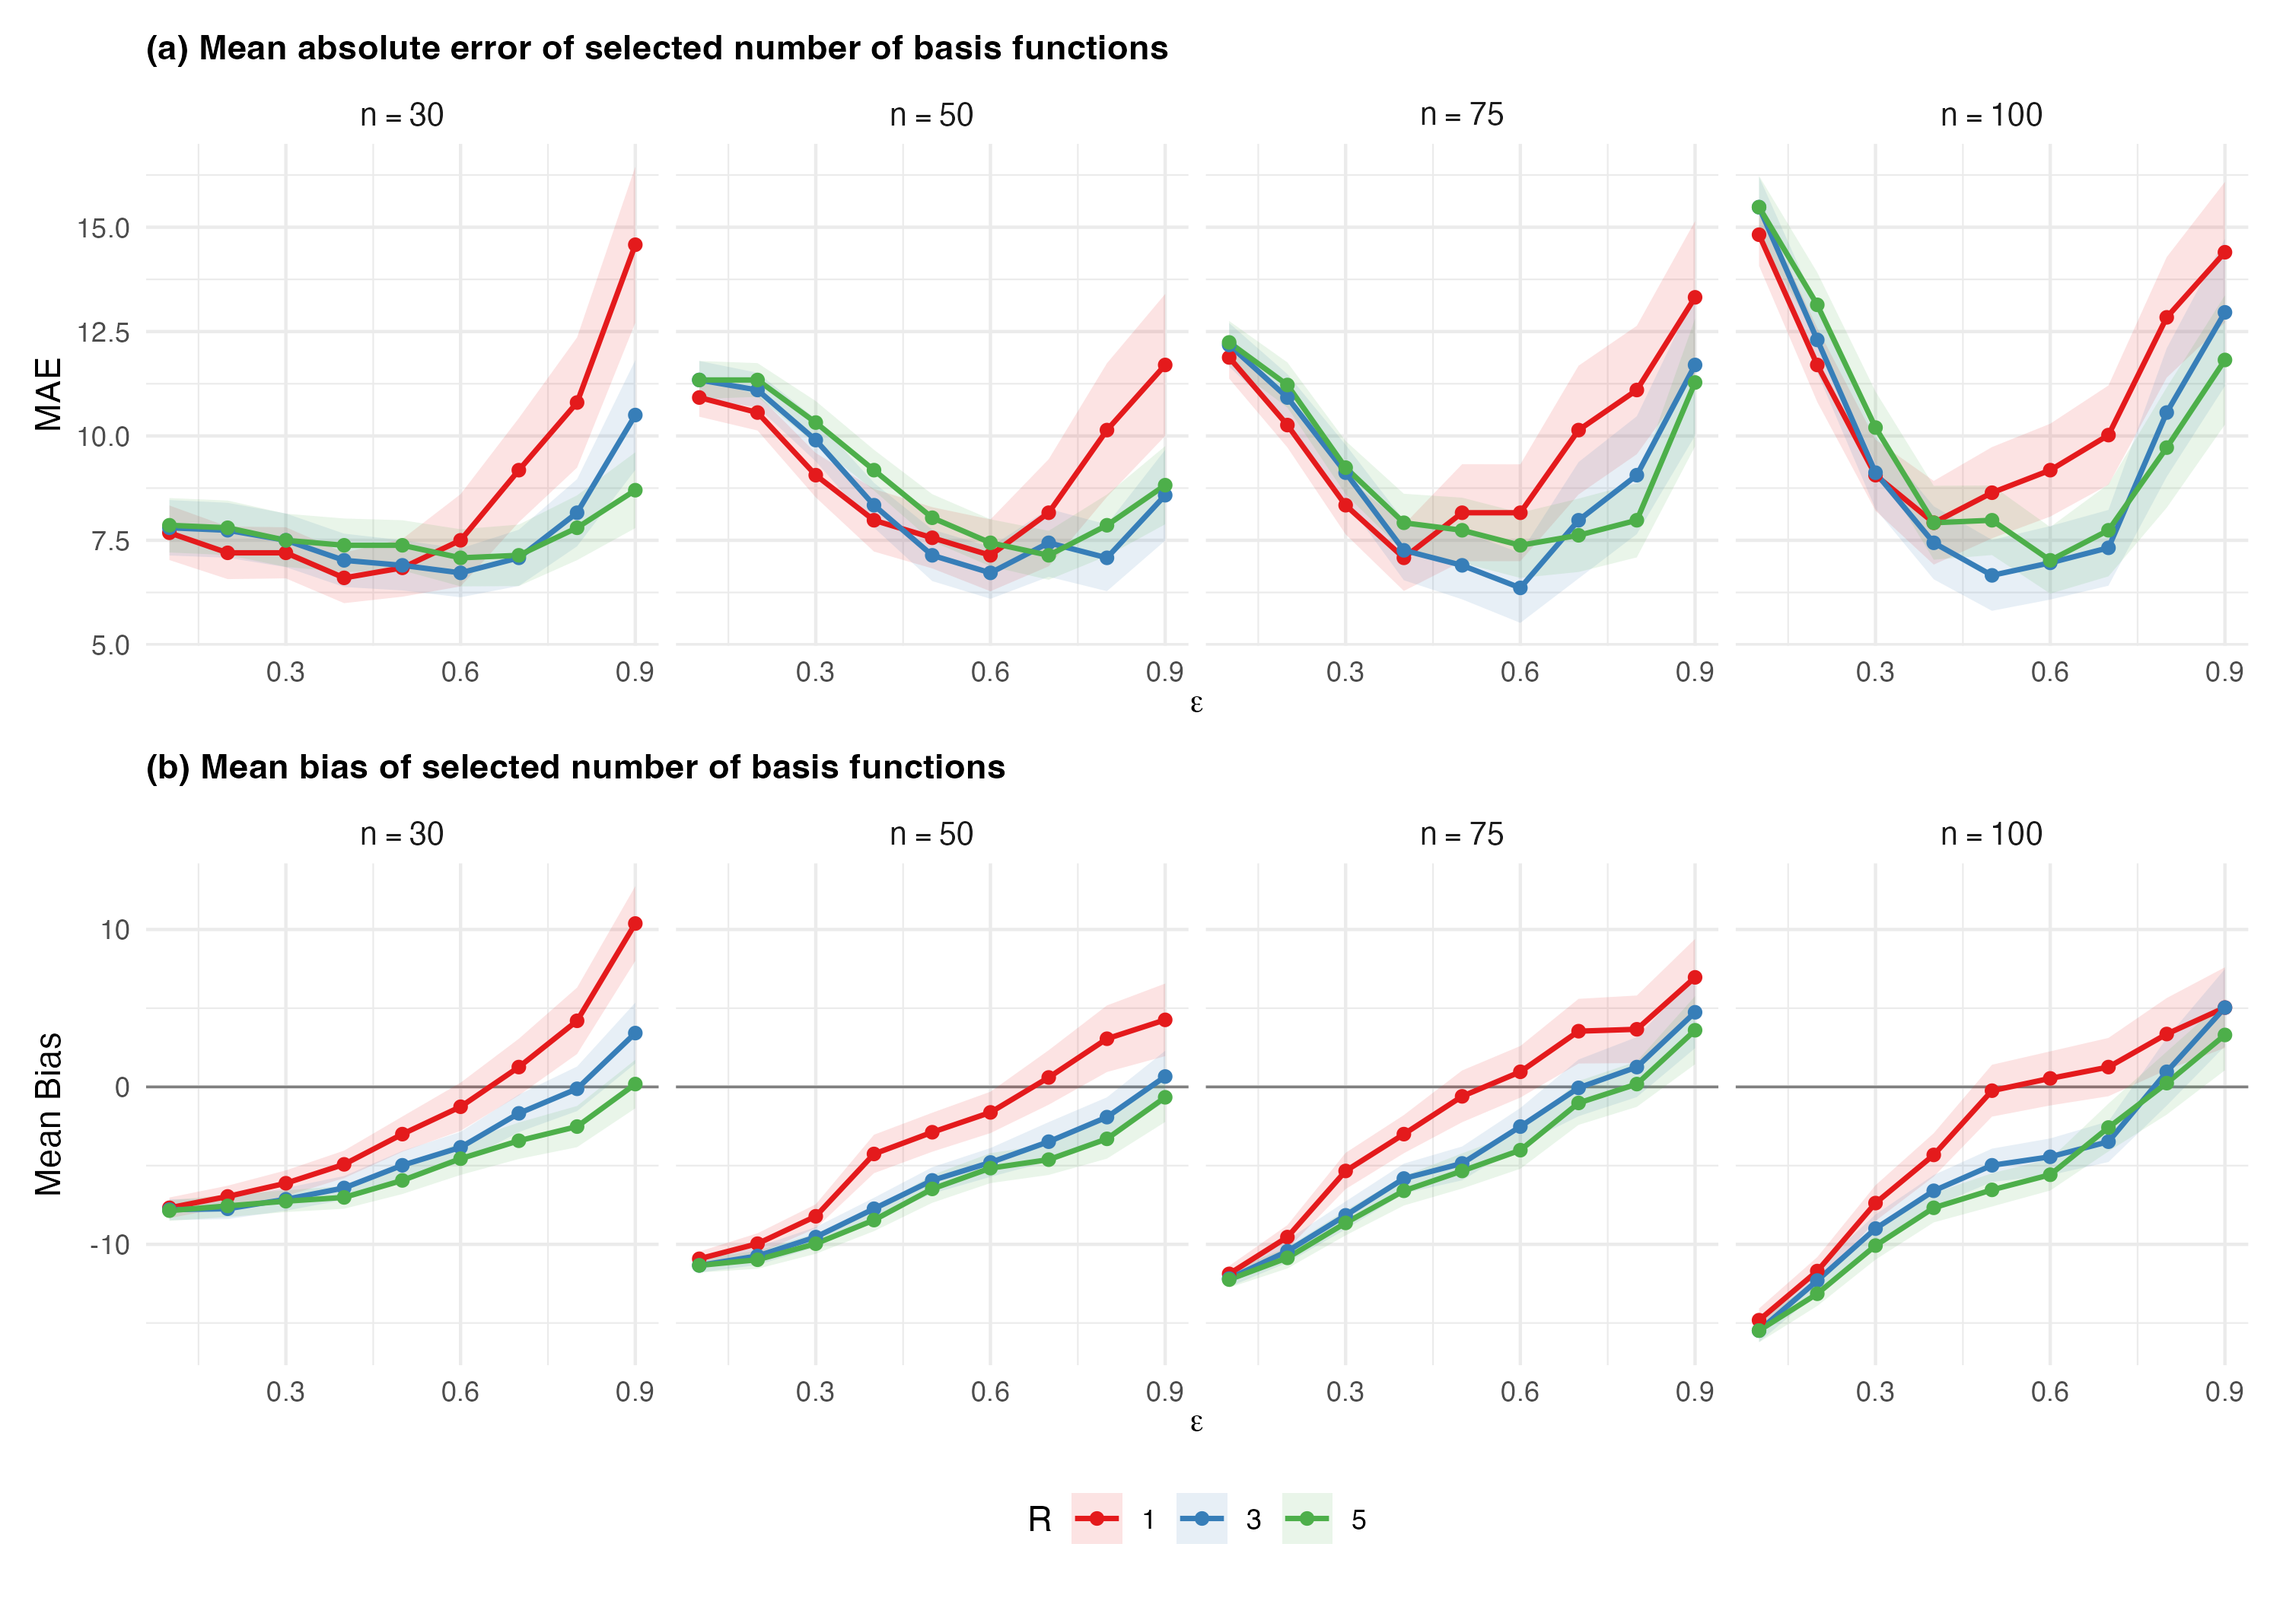
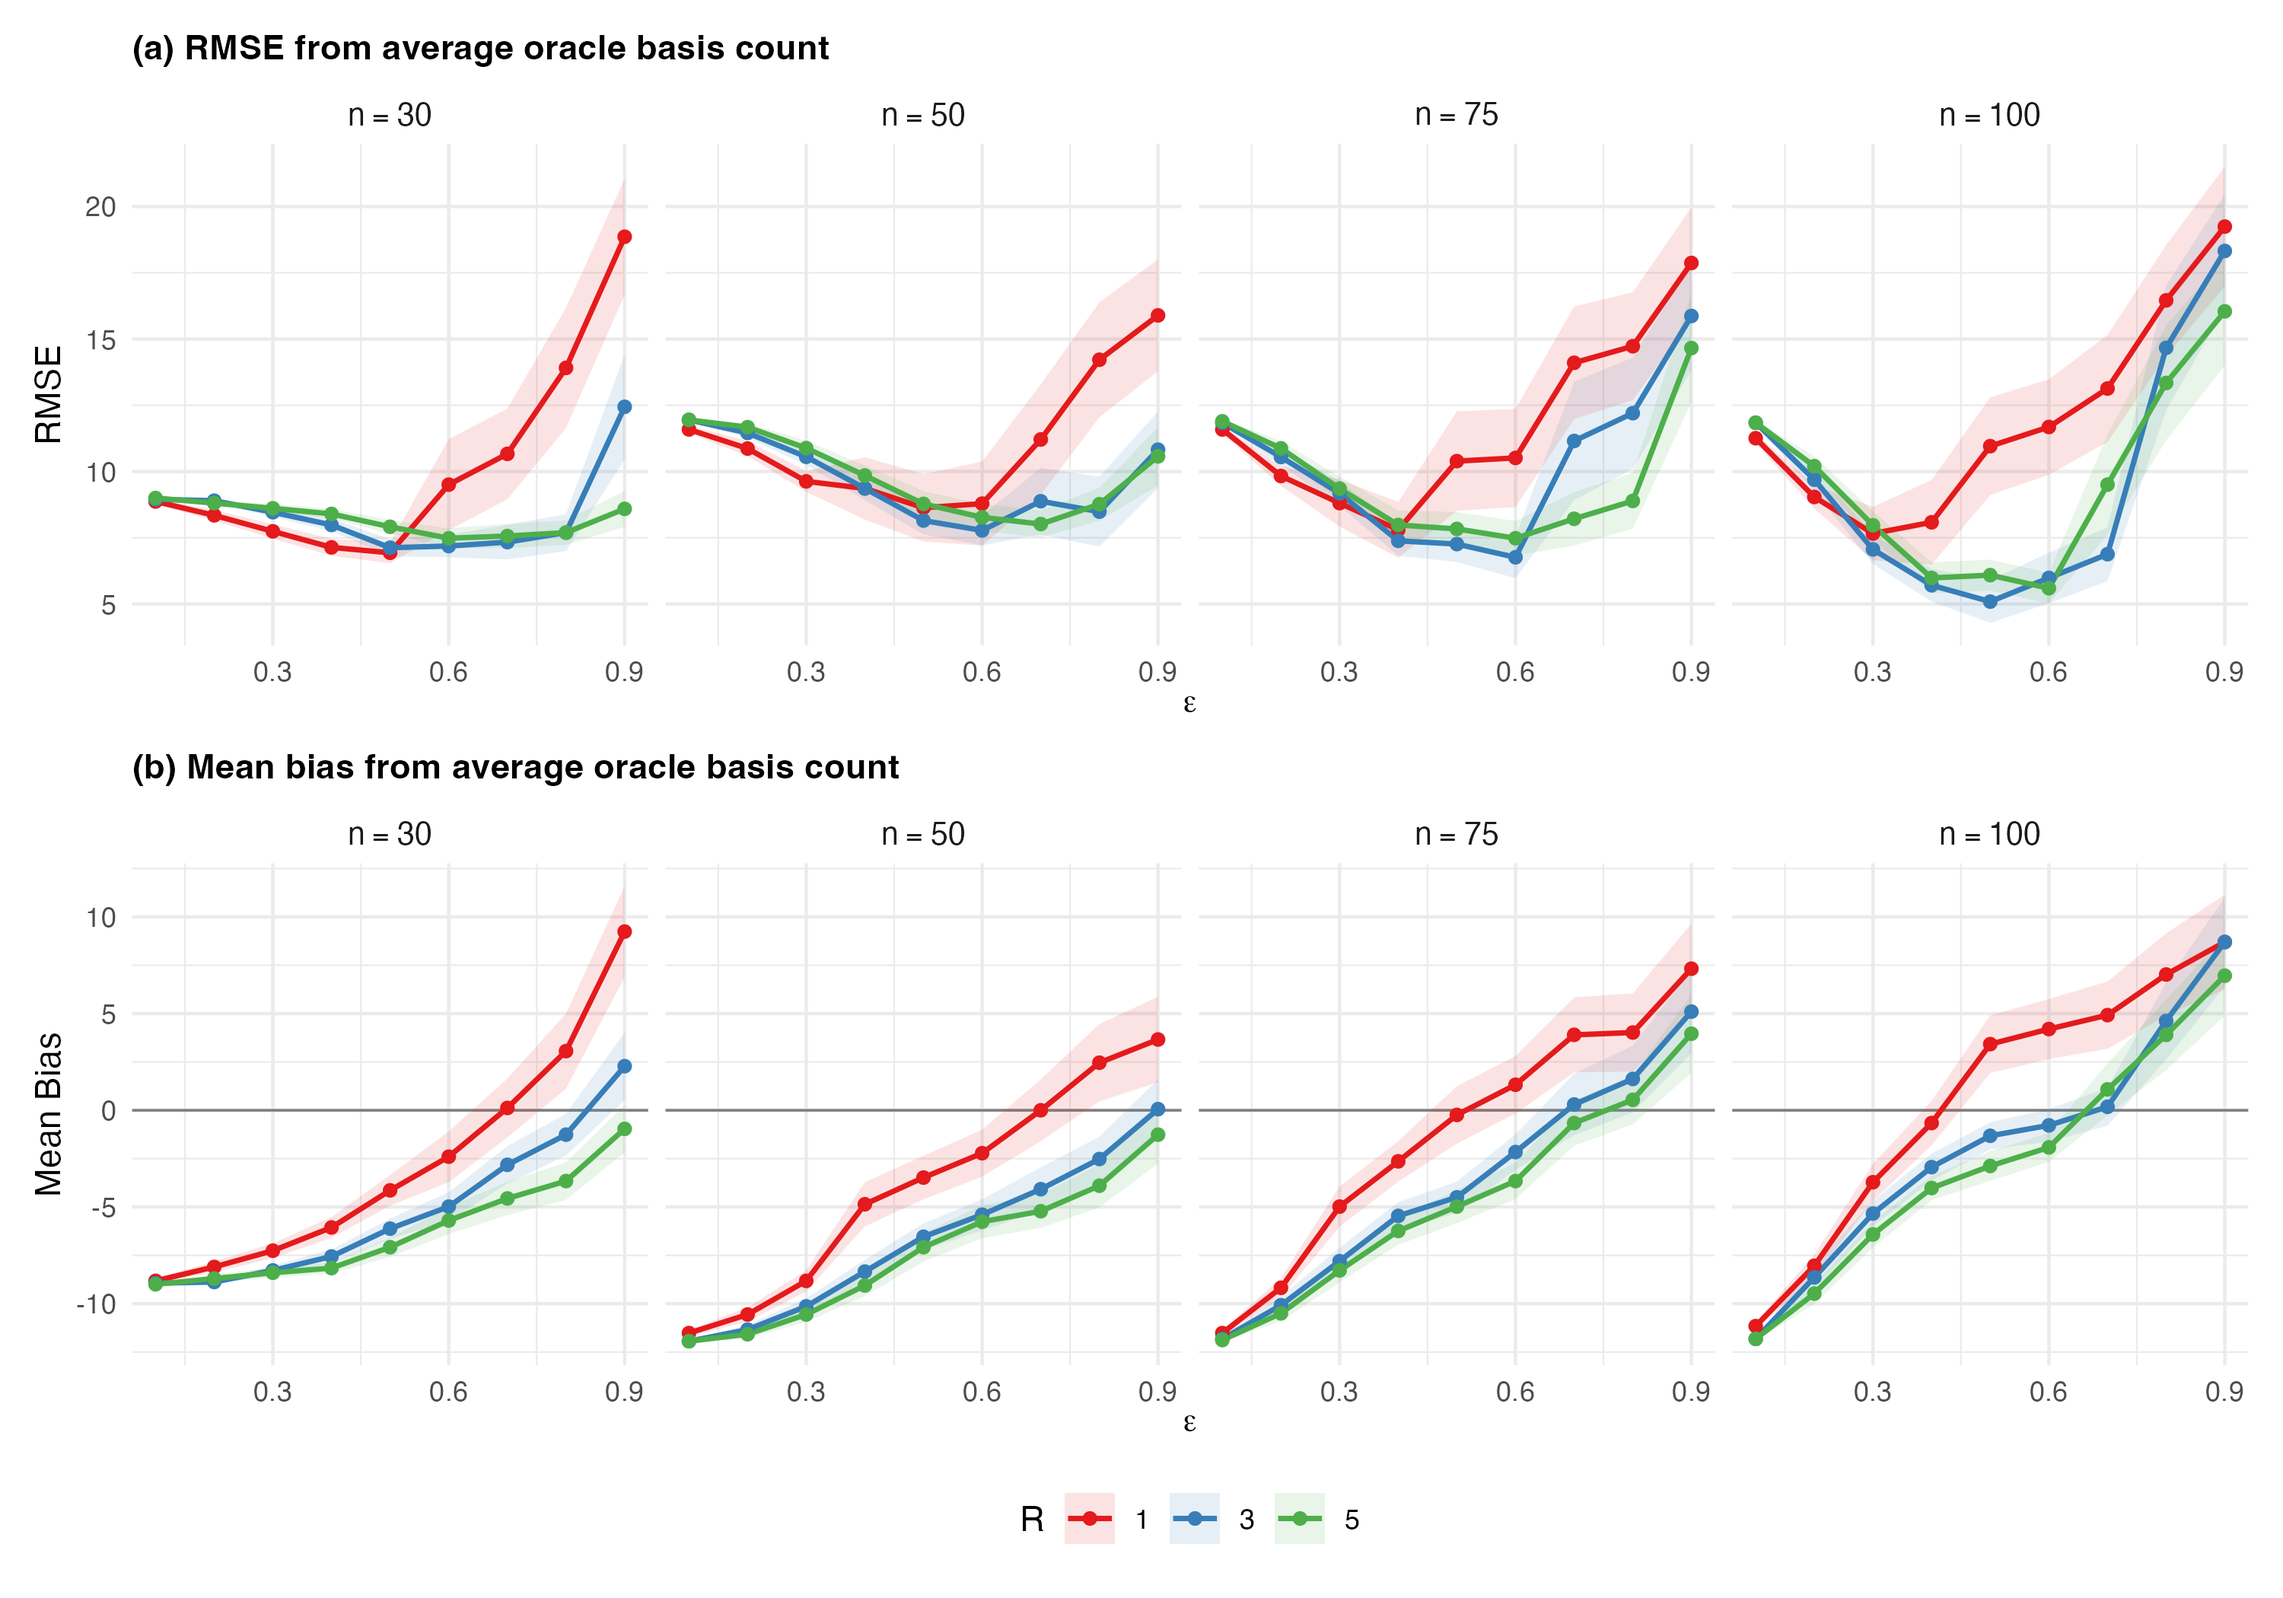
update: re-render Section 6 outputs with average oracle and RMSE metric
plot4_basis.png, plot5_comparison.png, table_comparison.tex now reflect
average oracle (p*=15) and RMSE, matching arXiv v1.

diff --git a/core_analysis/table_comparison.tex b/core_analysis/table_comparison.tex
@@ -1,18 +1,15 @@
 \begin{table}[ht]
 \centering
-\begin{tabular}{l rrr rrr}
+\begin{tabular}{l rrrr}
   \toprule
-  & \multicolumn{3}{c}{MAE} & \multicolumn{3}{c}{Bias} \\
-  \cmidrule(lr){2-4} \cmidrule(lr){5-7}
-  Method & 0.75\% & 1.25\% & 1.75\% & 0.75\% & 1.25\% & 1.75\% \\
+  Method & 0.75\% & 1.25\% & 1.75\% & Overall \\
   \midrule
-  DT-MSE $\epsilon$=0.7 & 7.74 & 5.82 & 9.54 & $-$3.4 & $-$3.5 & $-$3.4 \\
-  DT-NLL $\epsilon$=0.7 & 7.68 & 5.88 & 10.14 & $-$2.8 & $-$2.8 & $-$0.8 \\
-  DIC & 6.18 & 5.70 & 10.68 & $-$2.6 & $-$1.4 & $+$0.4 \\
-  WAIC & 5.94 & 6.78 & 13.02 & $-$2.7 & $+$0.2 & $+$2.8 \\
-  ESIM & 9.60 & 7.44 & 7.38 & $-$8.8 & $-$7.0 & $-$6.7 \\
+  DT-MSE $\\epsilon$=0.7 & 8.54 & 5.91 & 8.41 & 7.71 \\
+  DT-NLL $\\epsilon$=0.7 & 8.27 & 6.04 & 10.44 & 8.44 \\
+  DIC & 6.98 & 6.79 & 10.60 & 8.31 \\
+  WAIC & 6.77 & 9.49 & 14.26 & 10.63 \\
   \bottomrule
 \end{tabular}
-\caption{MAE and mean bias from oracle basis count by method and design across $S=50$ simulation replicates. Columns indicate proportional-to-population allocation (PA) designs with overall sampling rates of 0.75\%, 1.25\%, 1.75\%. Negative bias indicates under-selection; positive indicates over-selection.}
+\caption{RMSE of the selected basis count from the average oracle ($p^* = 15$) by method and design across $S=50$ simulation replicates. Columns indicate proportional allocation designs with overall sampling rates of 0.75\%, 1.25\%, and 1.75\%. Overall RMSE pools deviations across all three designs.}
 \label{tab:comparison}
 \end{table}
